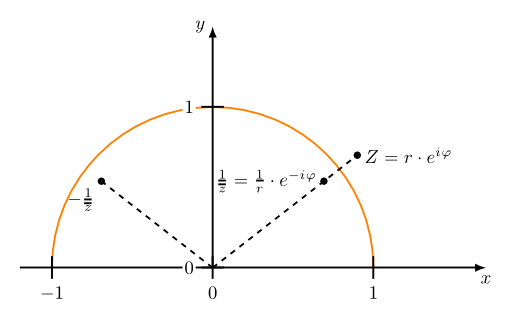
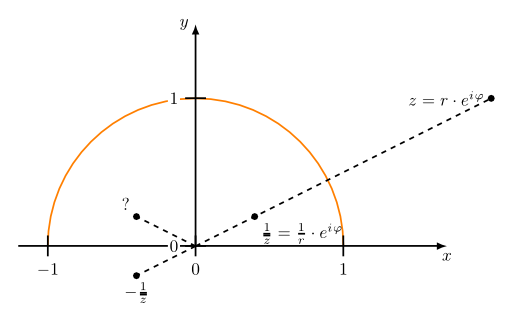
Titelseite verändert; added acronyms page

diff --git a/documents/acronyms-example/acronyms-example.tex b/documents/acronyms-example/acronyms-example.tex
@@ -1,0 +1,90 @@
+\documentclass[a4paper]{scrartcl}
+\usepackage{amssymb, amsmath} % needed for math
+\usepackage[utf8]{inputenc} % this is needed for umlauts
+\usepackage[ngerman]{babel} % this is needed for umlauts
+\usepackage[T1]{fontenc}    % this is needed for correct output of umlauts in pdf
+\usepackage[margin=2.5cm]{geometry} %layout
+\usepackage{hyperref}   % links im text
+\usepackage{acronym}
+
+\title{Minimal distance to a cubic function}
+\author{Martin Thoma}
+
+\hypersetup{ 
+  pdfauthor   = {Martin Thoma}, 
+  pdfkeywords = {}, 
+  pdftitle    = {} 
+} 
+
+%%%%%%%%%%%%%%%%%%%%%%%%%%%%%%%%%%%%%%%%%%%%%%%%%%%%%%%%%%%%%%%%%%%%%
+% Begin document                                                    %
+%%%%%%%%%%%%%%%%%%%%%%%%%%%%%%%%%%%%%%%%%%%%%%%%%%%%%%%%%%%%%%%%%%%%%
+\begin{document}
+\maketitle
+\begin{abstract}
+In this paper I want to discuss how to find the minimal distance of a
+point $P = (x_p, y_p)$ to a cubic function $f: \mathbb{R} \rightarrow \mathbb{R}$, 
+$f(x) = a \cdot x^3 + b \cdot x^2 + c \cdot x + d$.
+
+So I search for $x \in \mathbb{R}$ such that \dots
+\end{abstract}
+
+\section{Minimal distance constant function}
+Lorem ipsum dolor sit amet, consectetur adipiscing elit. Nulla 
+quam elit, vestibulum nec facilisis at, condimentum id enim. Sed 
+iaculis lacinia quam, vel \ac{KDE} accumsan eros tempor in. Integer ipsum 
+metus, accumsan sit amet commodo a, egestas vitae sem. Mauris ut 
+orci ut dolor viverra convallis \ac{KDE} nec a erat. Aenean consequat elit 
+vel eros fermentum vestibulum id at ipsum. In vitae orci mauris, et 
+rhoncus odio. Pellentesque habitant morbi tristique senectus et netus 
+et malesuada fames ac turpis egestas.
+\clearpage
+\begin{acronym}[SQL]
+ \acro{KDE}{K Desktop Environment}
+ \acro{SQL}{Structured Query Language}
+ \acro{Bash}{Bourne-again shell}
+ \acro{KDE}{K Desktop Environment}
+ \acro{SQL}{Structured Query Language}
+ \acro{Bash}{Bourne-again shell}
+ \acro{KDE}{K Desktop Environment}
+ \acro{SQL}{Structured Query Language}
+ \acro{Bash}{Bourne-again shell}
+ \acro{KDE}{K Desktop Environment}
+ \acro{SQL}{Structured Query Language}
+ \acro{Bash}{Bourne-again shell}
+ \acro{KDE}{K Desktop Environment}
+ \acro{SQL}{Structured Query Language}
+ \acro{Bash}{Bourne-again shell}
+ \acro{KDE}{K Desktop Environment}
+ \acro{SQL}{Structured Query Language}
+ \acro{Bash}{Bourne-again shell}
+ \acro{KDE}{K Desktop Environment}
+ \acro{SQL}{Structured Query Language}
+ \acro{Bash}{Bourne-again shell}
+ \acro{KDE}{K Desktop Environment}
+ \acro{SQL}{Structured Query Language}
+ \acro{Bash}{Bourne-again shell}
+ \acro{KDE}{K Desktop Environment}
+ \acro{SQL}{Structured Query Language}
+ \acro{Bash}{Bourne-again shell}
+ \acro{KDE}{K Desktop Environment}
+ \acro{SQL}{Structured Query Language}
+ \acro{Bash}{Bourne-again shell}
+ \acro{KDE}{K Desktop Environment}
+ \acro{SQL}{Structured Query Language}
+ \acro{Bash}{Bourne-again shell}
+ \acro{KDE}{K Desktop Environment}
+ \acro{SQL}{Structured Query Language}
+ \acro{Bash}{Bourne-again shell}
+ \acro{KDE}{K Desktop Environment}
+ \acro{SQL}{Structured Query Language}
+ \acro{Bash}{Bourne-again shell}
+ \acro{KDE}{K Desktop Environment}
+ \acro{SQL}{Structured Query Language}
+ \acro{Bash}{Bourne-again shell}
+ \acro{KDE}{K Desktop Environment}
+ \acro{SQL}{Structured Query Language}
+ \acro{Bash}{Bourne-again shell}
+\end{acronym}
+
+\end{document}

diff --git a/tikz/inversion-am-kreis/inversion-am-kreis.tex b/tikz/inversion-am-kreis/inversion-am-kreis.tex
@@ -9,22 +9,25 @@
     \tkzSetUpLine[line width=1]
     \tkzInit[xmax=1.2,ymax=1,xmin=-1.2,ymin=0]
     \pgfmathsetmacro{\Radius}{1}
-    \tkzDefPoints{0.9/0.7/Z, 0/0/O, 0/1/i}
+    \tkzDefPoints{2.0/1.0/Z, 0/0/O, 0/1/i}
 
     %% Konstruktion von 1/ \overline{z} und -1/ \overline{z}
     \tkzTangent[from with R = Z,/tikz/overlay](O,\Radius cm)  \tkzGetPoints{T1}{T2}
     \tkzInterLL(T1,T2)(O,Z) \tkzGetPoint{dZ}
     \tkzDefPointBy[reflection = over O--i](dZ) \tkzGetPoint{ndZ}
+    \tkzDefPointBy[symmetry = center O](dZ) \tkzGetPoint{other}
     %%
 
     \tkzDrawArc[R,line width=1pt,color=orange](O,\Radius cm)(0,180)
     \tkzAxeXY
 
-    \tkzDrawPoints(Z, dZ, ndZ)
-    \tkzLabelPoint[right](Z){$Z = r \cdot e^{\iu \varphi}$}
-    \tkzLabelPoint[left](dZ){$\frac{1}{\overline{z}} = \frac{1}{r} \cdot e^{-\iu \varphi}$}
-    \tkzLabelPoint[below left](ndZ){$-\frac{1}{\overline{z}}$}
+    \tkzDrawPoints(Z, dZ, ndZ, other)
+    \tkzLabelPoint[left](Z){$z = r \cdot e^{\iu \varphi}$}
+    \tkzLabelPoint[below](other){$-\frac{1}{\overline{z}}$}
+    \tkzLabelPoint[below right](dZ){$\frac{1}{\overline{z}} = \frac{1}{r} \cdot e^{\iu \varphi}$}
+    \tkzLabelPoint[above left](ndZ){?}
     \tkzDrawSegments[dashed](O,Z)
     \tkzDrawSegments[dashed](O,ndZ)
+    \tkzDrawSegments[dashed](O,other)
 \end{tikzpicture}
 \end{document}
